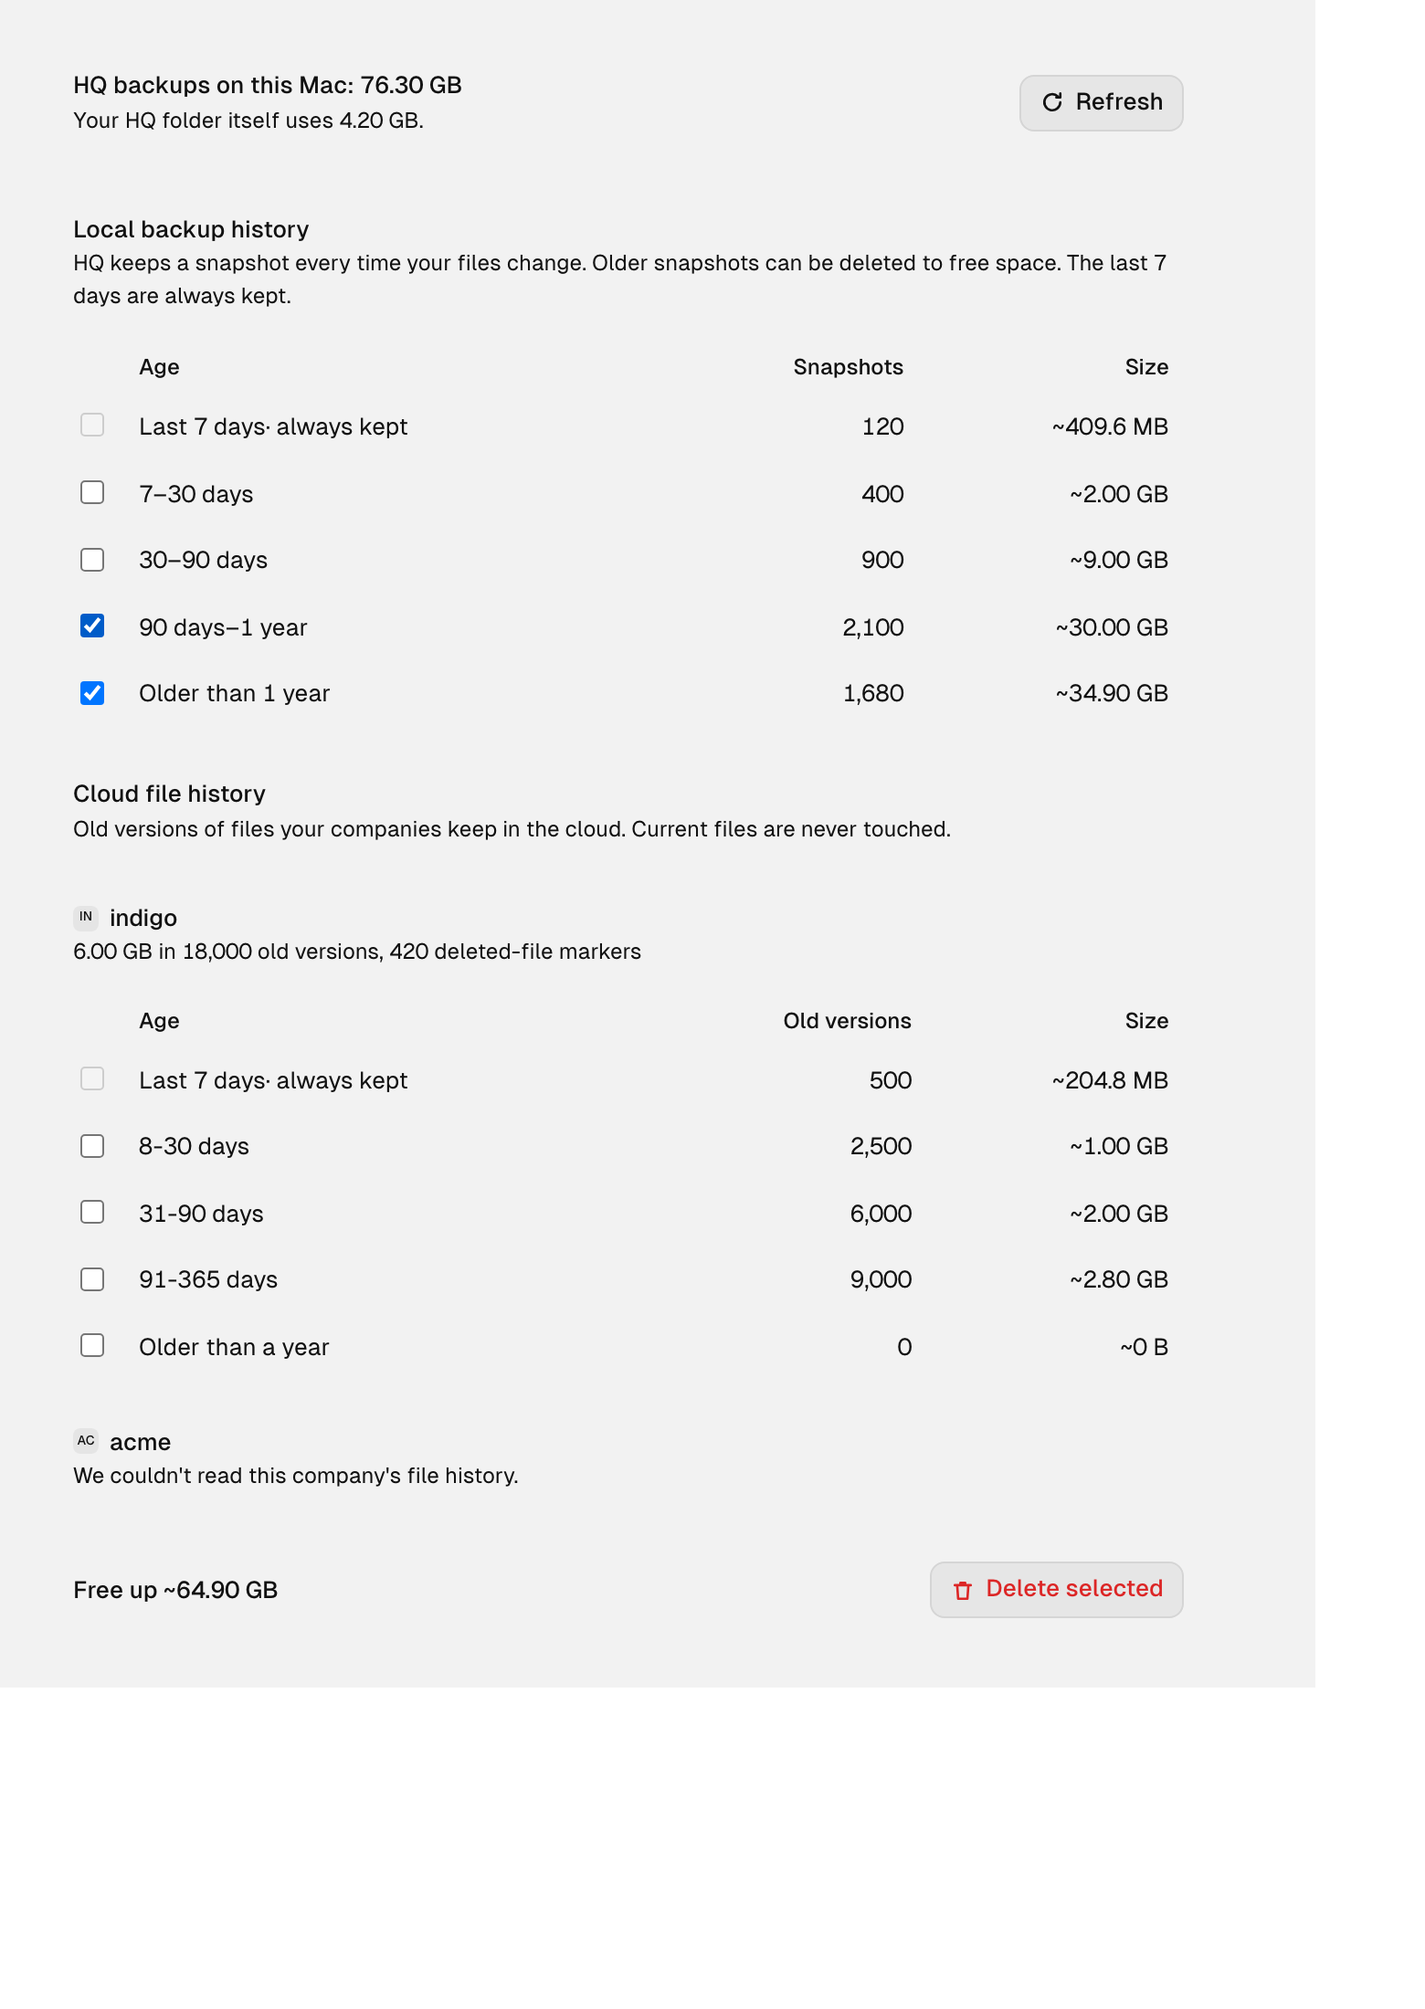
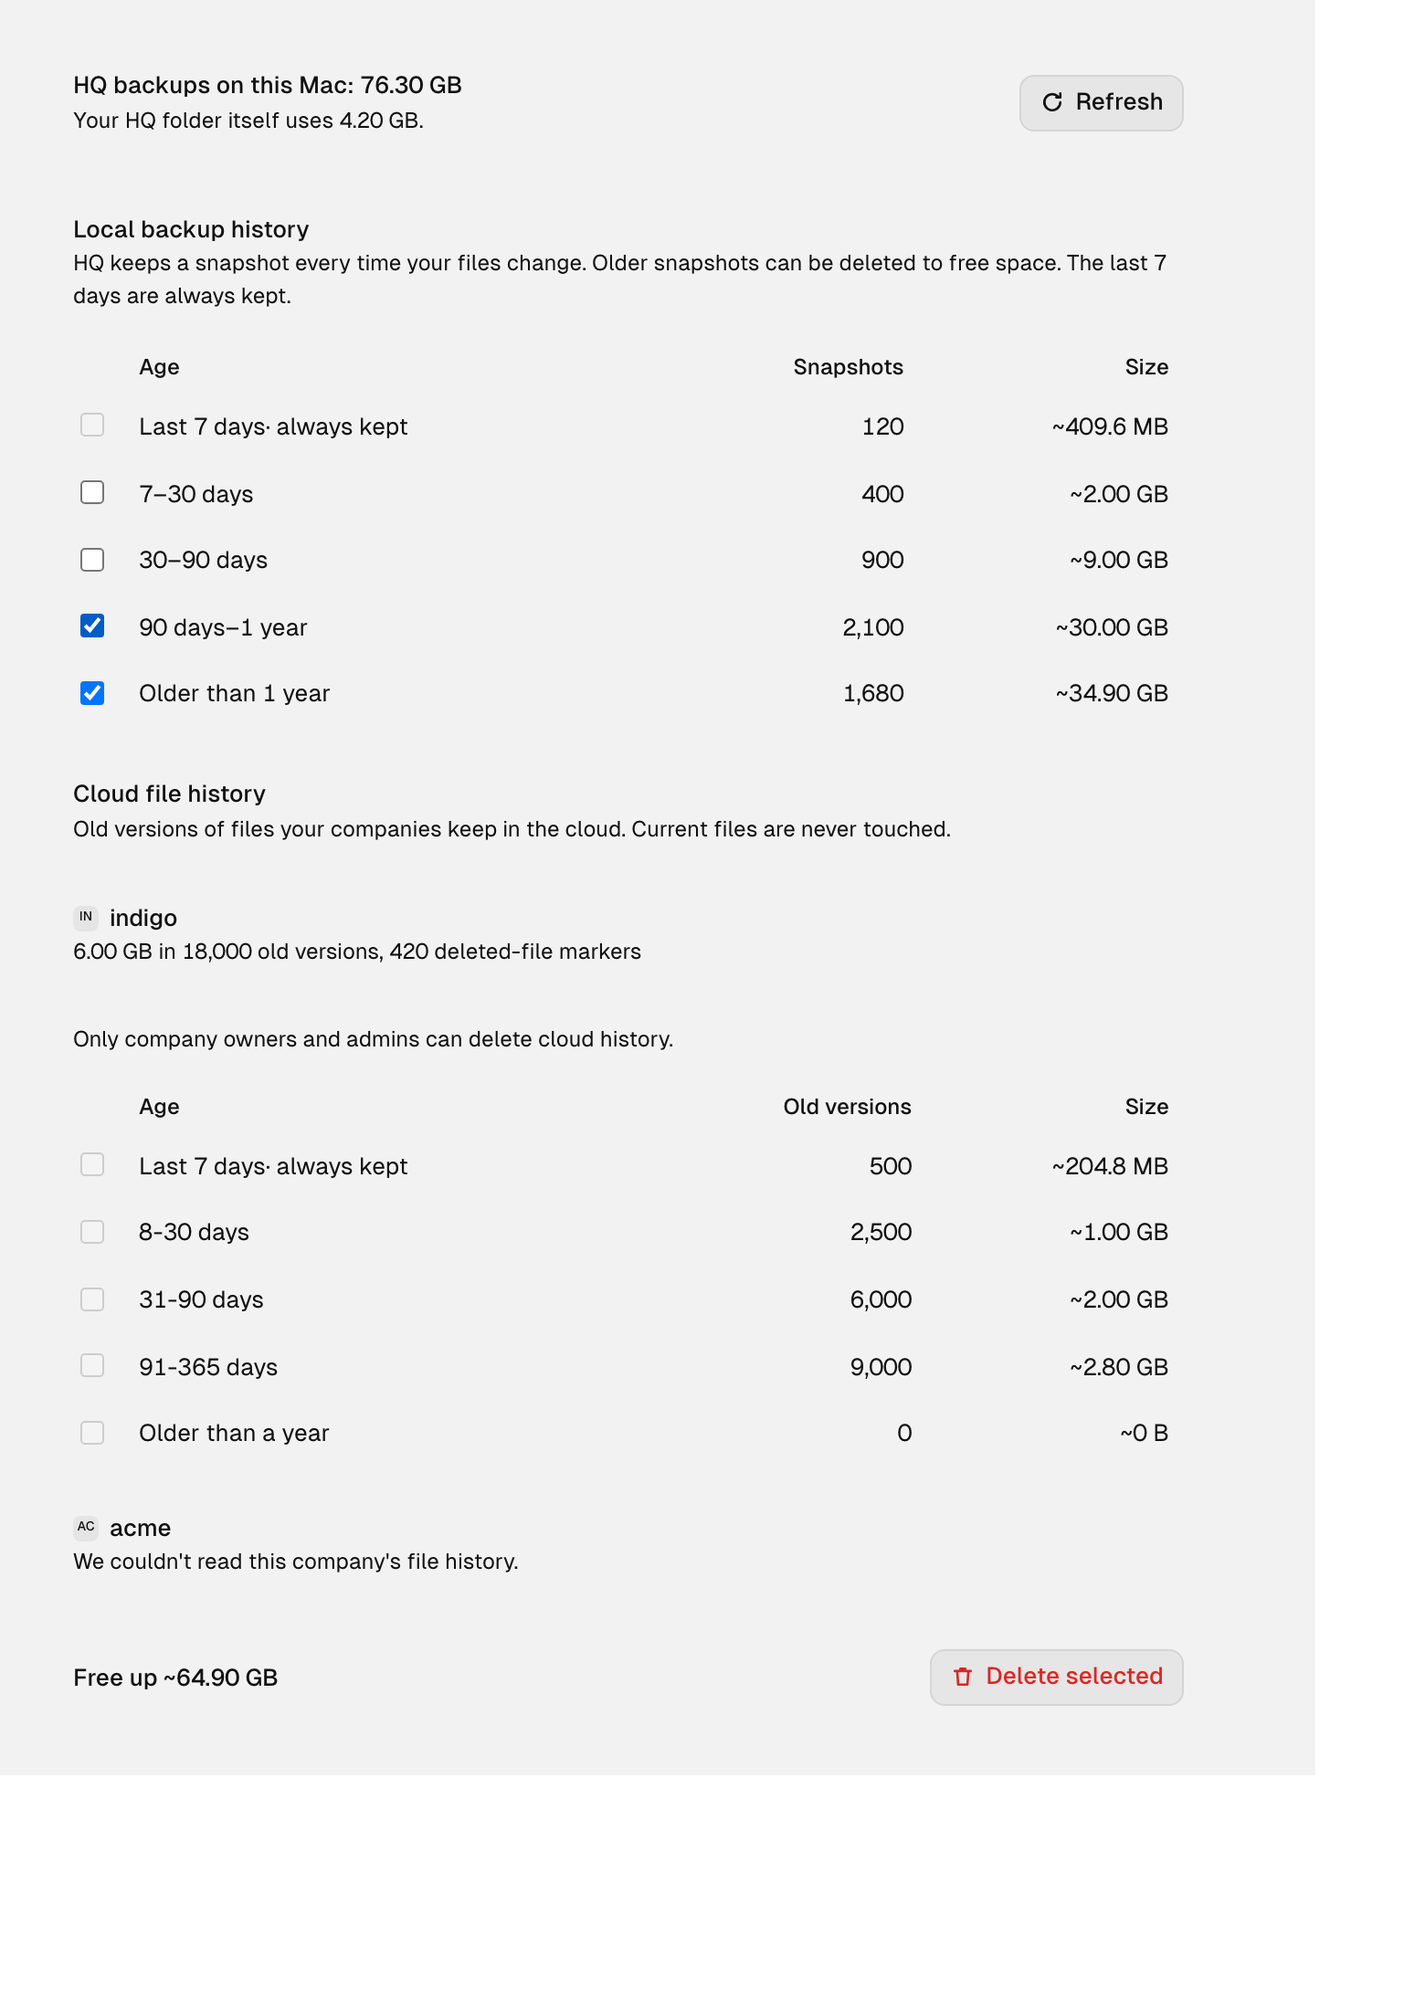
Settings › Storage: say tool bookmarks will be cleared; cloud delete is owners and admins only
Owner decisions: the confirm dialog names the count of old bookmarks
(refs_to_remove) prune clears, replacing the retained-refs note. Members
see cloud history sizes, but cloud bands are disabled with 'Only company
owners and admins can delete cloud history.' Unknown roles fall back to
the CLI's access-denied error, shown with the same copy.

diff --git a/packages/ui/src/settings/StorageSettingsPane.svelte b/packages/ui/src/settings/StorageSettingsPane.svelte
@@ -22,7 +22,12 @@
   import { formatBytes } from "../common/sync-model.js";
   import {
     UPDATE_HQ_CODE,
-    hasRetainedRefs,
+    CLOUD_ADMIN_ONLY_COPY,
+    bookmarksCopy,
+    canDeleteCloud,
+    isPermissionError,
+    refsToRemove,
+    rolesFromMemberships,
     isBandSelected,
     isProtectedBand,
     pruneRequests,
@@ -48,11 +53,11 @@
   let localCutoff = $state<BandCutoff>(null);
   let cloudCutoffs = $state<Record<string, BandCutoff>>({});
   let phase = $state<Phase>("idle");
-  let preview = $state<{ bytes: number; lines: string[] } | null>(null);
+  let preview = $state<{ bytes: number; lines: string[]; notes: string[] } | null>(null);
   let actionError = $state<string | null>(null);
   let result = $state<{ freed: number; errors: string[] } | null>(null);
-  /** The last preview or prune said other tools still hold old history. */
-  let retainedRefs = $state(false);
+  /** Company slug → the person's role, from their memberships. */
+  let roles = $state<Map<string, string>>(new Map());
 
   const api = $derived(adapter?.storage ?? null);
 
@@ -130,9 +135,9 @@
     phase = "previewing";
     actionError = null;
     result = null;
-    retainedRefs = false;
     let bytes = 0;
     const lines: string[] = [];
+    const notes: string[] = [];
     for (const req of requests) {
       const res = await api.previewPrune(req);
       if (!res.ok) {
@@ -143,12 +148,13 @@
         phase = "idle";
         return;
       }
-      if (hasRetainedRefs(res.value)) retainedRefs = true;
       const freed = prunedBytes(res.value);
       bytes += freed;
       lines.push(`${describeRequest(req)} (about ${formatBytes(freed)})`);
+      const bookmarks = bookmarksCopy(refsToRemove(res.value));
+      if (bookmarks) notes.push(bookmarks);
     }
-    preview = { bytes, lines };
+    preview = { bytes, lines, notes };
     phase = "confirm";
   }
 
@@ -166,12 +172,13 @@
         continue;
       }
       freed += prunedBytes(res.value);
-      if (hasRetainedRefs(res.value)) retainedRefs = true;
       if (res.value.local && res.value.local.available === false) {
         errors.push("this Mac: some backups couldn't be deleted.");
       }
       for (const c of res.value.cloud ?? []) {
-        if ((c.errors ?? []).length > 0) errors.push(`${c.company}: some old versions couldn't be deleted.`);
+        const errs = c.errors ?? [];
+        if (errs.some(isPermissionError)) errors.push(`${c.company}: ${CLOUD_ADMIN_ONLY_COPY}`);
+        else if (errs.length > 0) errors.push(`${c.company}: some old versions couldn't be deleted.`);
       }
     }
     result = { freed, errors };
@@ -188,12 +195,18 @@
 
   const confirmMessage = $derived(
     preview
-      ? `${preview.lines.join(". ")}. This frees about ${formatBytes(preview.bytes)}. This can't be undone. You won't be able to restore these old versions.`
+      ? `${preview.lines.join(". ")}. This frees about ${formatBytes(preview.bytes)}.${preview.notes.map((n) => ` ${n}`).join("")} This can't be undone. You won't be able to restore these old versions.`
       : "",
   );
 
+  async function loadRoles(): Promise<void> {
+    const res = await adapter?.identity?.listWorkspaces?.().catch(() => null);
+    if (res?.ok) roles = rolesFromMemberships(res.value as Record<string, unknown>[]);
+  }
+
   onMount(() => {
     void load();
+    void loadRoles();
   });
 </script>
 
@@ -270,9 +283,6 @@
         </tbody>
       </table>
     {/if}
-    {#if retainedRefs}
-      <div class="set-row"><div class="sd" data-testid="settings-storage-retained-note">Some older history is still held by other tools, so less space may be freed.</div></div>
-    {/if}
 
     <div class="set-subhead"><div class="sn">Cloud file history</div>
       <div class="sd">Old versions of files your companies keep in the cloud. Current files are never touched.</div>
@@ -294,8 +304,12 @@
             </div>
           </div>
         </div>
+        {#if entry.available && entry.bands.length > 0 && !canDeleteCloud(roles, entry.company)}
+          <div class="set-row"><div class="sd" data-testid={`settings-storage-cloud-${entry.company}-admin-only`}>{CLOUD_ADMIN_ONLY_COPY}</div></div>
+        {/if}
         {#if entry.available && entry.bands.length > 0}
           {@const cutoff = cloudCutoffs[entry.company] ?? null}
+          {@const canDelete = canDeleteCloud(roles, entry.company)}
           <table class="bands">
             <thead><tr><th></th><th>Age</th><th class="num">Old versions</th><th class="num">Size</th></tr></thead>
             <tbody>
@@ -308,7 +322,7 @@
                       aria-label={`Delete ${entry.company} ${band.label}`}
                       data-testid={`storage-cloud-${entry.company}-band-${band.id}`}
                       checked={isBandSelected(cutoff, i)}
-                      disabled={locked || phase !== "idle"}
+                      disabled={locked || !canDelete || phase !== "idle"}
                       onchange={() =>
                         (cloudCutoffs = {
                           ...cloudCutoffs,

diff --git a/packages/ui/src/settings/StorageSettingsPane.test.ts b/packages/ui/src/settings/StorageSettingsPane.test.ts
@@ -83,10 +83,14 @@ export const SAMPLE_STATUS: StorageStatus = {
 
 type StorageMock = NonNullable<PlatformAdapter["storage"]>;
 
-function adapter(storage: Partial<StorageMock> | null): PlatformAdapter {
+function adapter(
+  storage: Partial<StorageMock> | null,
+  memberships?: Record<string, unknown>[],
+): PlatformAdapter {
   return {
     isAvailable: () => false,
     storage: storage ?? undefined,
+    identity: memberships ? { listWorkspaces: async () => ({ ok: true, value: memberships }) } : undefined,
   } as unknown as PlatformAdapter;
 }
 
@@ -98,12 +102,15 @@ async function settle(): Promise<void> {
   flushSync();
 }
 
-async function render(storage: Partial<StorageMock> | null): Promise<void> {
+async function render(
+  storage: Partial<StorageMock> | null,
+  memberships?: Record<string, unknown>[],
+): Promise<void> {
   host = document.createElement("div");
   document.body.appendChild(host);
   component = mount(StorageSettingsPane, {
     target: host,
-    props: { adapter: adapter(storage) },
+    props: { adapter: adapter(storage, memberships) },
   });
   await settle();
 }
@@ -242,27 +249,38 @@ describe("Settings › Storage pane", () => {
     expect(prune).not.toHaveBeenCalled();
   });
 
-  it("notes when other tools still hold old local history", async () => {
+  it("says in the confirm dialog that old tool bookmarks will be cleared", async () => {
     await render({
       status: async () => ({ ok: true, value: SAMPLE_STATUS }),
       previewPrune: async () => ({
         ok: true,
         value: {
-          local: { ...LOCAL_PRUNE, would_remove_commits: 10, est_bytes: GB, retained_refs: 3 },
+          local: { ...LOCAL_PRUNE, would_remove_commits: 10, est_bytes: GB, refs_to_remove: 3 },
           cloud: [],
           dry_run: true,
         },
       }),
       prune: vi.fn(),
     });
-    expect(q("settings-storage-retained-note")).toBeNull();
     (q("storage-local-band-older") as HTMLInputElement).click();
     await settle();
     q("settings-storage-delete")?.click();
     await settle();
-    expect(q("settings-storage-retained-note")?.textContent).toBe(
-      "Some older history is still held by other tools, so less space may be freed.",
+    const dialog = document.querySelector("[data-testid='confirm-dialog']");
+    expect(dialog?.textContent).toContain("3 old bookmarks other tools left behind will also be cleared.");
+  });
+
+  it("members see cloud sizes but cannot tick cloud bands", async () => {
+    await render({
+      status: async () => ({ ok: true, value: SAMPLE_STATUS }),
+      previewPrune: vi.fn(),
+      prune: vi.fn(),
+    }, [{ companySlug: "indigo", role: "member", status: "active" }]);
+    expect(q("settings-storage-cloud-indigo-admin-only")?.textContent).toBe(
+      "Only company owners and admins can delete cloud history.",
     );
+    expect((q("storage-cloud-indigo-band-older") as HTMLInputElement).disabled).toBe(true);
+    expect(q("settings-storage-cloud-indigo")?.textContent).toContain("old versions");
   });
 
   it("reports per-company cloud errors in plain words", async () => {
@@ -293,7 +311,7 @@ describe("Settings › Storage pane", () => {
     Array.from(dialog!.querySelectorAll("button")).find((b) => b.textContent?.includes("Delete"))!.click();
     await settle();
     const text = q("settings-storage-result")?.textContent ?? "";
-    expect(text).toContain("indigo: some old versions couldn't be deleted.");
+    expect(text).toContain("indigo: Only company owners and admins can delete cloud history.");
     expect(text).not.toContain("s3:");
   });
 });

diff --git a/packages/ui/src/settings/storage-model.test.ts b/packages/ui/src/settings/storage-model.test.ts
@@ -2,7 +2,11 @@ import { describe, expect, it } from "vitest";
 
 import {
   cutoffDate,
-  hasRetainedRefs,
+  bookmarksCopy,
+  canDeleteCloud,
+  isPermissionError,
+  refsToRemove,
+  rolesFromMemberships,
   isBandSelected,
   pruneRequests,
   prunedBytes,
@@ -133,8 +137,30 @@ describe("prunedBytes / hasRetainedRefs (hq storage prune --json)", () => {
     expect(prunedBytes({ local: null, cloud: [], dry_run: true })).toBe(0);
   });
 
-  it("flags retained refs", () => {
-    expect(hasRetainedRefs({ local: { ...local, retained_refs: 2 }, cloud: [], dry_run: true })).toBe(true);
-    expect(hasRetainedRefs({ local: null, cloud: [], dry_run: true })).toBe(false);
+  it("reads refs_to_remove and words the bookmarks note", () => {
+    expect(refsToRemove({ local: { ...local, refs_to_remove: 3 }, cloud: [], dry_run: true })).toBe(3);
+    expect(refsToRemove({ local: null, cloud: [], dry_run: true })).toBe(0);
+    expect(bookmarksCopy(0)).toBe("");
+    expect(bookmarksCopy(1)).toBe("1 old bookmark other tools left behind will also be cleared.");
+    expect(bookmarksCopy(3)).toBe("3 old bookmarks other tools left behind will also be cleared.");
+  });
+});
+
+describe("cloud delete permission", () => {
+  it("allows owners, admins and unknown roles; blocks members", () => {
+    const roles = rolesFromMemberships([
+      { companySlug: "indigo", role: "owner" },
+      { companySlug: "acme", role: "Admin" },
+      { companySlug: "beta", role: "member" },
+    ]);
+    expect(canDeleteCloud(roles, "indigo")).toBe(true);
+    expect(canDeleteCloud(roles, "acme")).toBe(true);
+    expect(canDeleteCloud(roles, "beta")).toBe(false);
+    expect(canDeleteCloud(roles, "unknown")).toBe(true);
+  });
+
+  it("recognises the CLI access-denied message", () => {
+    expect(isPermissionError("Access denied deleting old versions (needs s3:DeleteObjectVersion on the vault bucket).")).toBe(true);
+    expect(isPermissionError("NoSuchBucket")).toBe(false);
   });
 });

diff --git a/packages/ui/src/settings/storage-model.ts b/packages/ui/src/settings/storage-model.ts
@@ -153,7 +153,42 @@ export function prunedBytes(r: StoragePruneResult): number {
   return total;
 }
 
-/** True when other refs (tags, stash, tool markers) keep old local history. */
-export function hasRetainedRefs(r: StoragePruneResult): boolean {
-  return (r.local?.retained_refs ?? 0) > 0;
+/** Tool bookmarks a dry run says prune will clear (0 when not reported). */
+export function refsToRemove(r: StoragePruneResult): number {
+  return r.local?.refs_to_remove ?? 0;
+}
+
+/** Plain copy for the confirm dialog about bookmarks other tools left. */
+export function bookmarksCopy(count: number): string {
+  if (count <= 0) return "";
+  return count === 1
+    ? "1 old bookmark other tools left behind will also be cleared."
+    : `${count.toLocaleString()} old bookmarks other tools left behind will also be cleared.`;
+}
+
+export const CLOUD_ADMIN_ONLY_COPY = "Only company owners and admins can delete cloud history.";
+
+/**
+ * False only when the person is known to be neither owner nor admin of the
+ * company. Unknown role: the CLI's permission error decides.
+ */
+export function canDeleteCloud(roles: ReadonlyMap<string, string>, company: string): boolean {
+  const role = (roles.get(company) ?? "").trim().toLowerCase();
+  return !role || role === "owner" || role === "admin";
+}
+
+/** Slug → role from `identity.listWorkspaces()` membership rows. */
+export function rolesFromMemberships(rows: ReadonlyArray<Record<string, unknown>>): Map<string, string> {
+  const roles = new Map<string, string>();
+  for (const row of rows) {
+    const slug = row.companySlug ?? row.slug;
+    const role = row.role;
+    if (typeof slug === "string" && typeof role === "string") roles.set(slug, role);
+  }
+  return roles;
+}
+
+/** True when a cloud prune error is the CLI's access-denied message. */
+export function isPermissionError(message: string): boolean {
+  return /access denied/i.test(message);
 }

diff --git a/packages/platform/src/adapter.ts b/packages/platform/src/adapter.ts
@@ -2315,6 +2315,8 @@ export interface StorageStatus {
     oldest_commit_at?: string | null;
     newest_commit_at?: string | null;
     tranches: StorageLocalTranche[];
+    /** Tool bookmarks (e.g. refs/cmux/last-turn/*) that prune clears. */
+    extra_refs?: number;
   };
   cloud: StorageCloudCompany[];
   generated_at?: string | null;
@@ -2343,6 +2345,10 @@ export interface StorageLocalPruneResult {
   total_commits_before: number;
   flattened_merges: number;
   retained_refs: number;
+  /** Dry run: tool bookmarks prune would clear. */
+  refs_to_remove?: number;
+  /** Real run: tool bookmarks prune cleared. */
+  refs_removed?: number;
   before?: { git_dir_bytes: number } | null;
   after?: { git_dir_bytes: number } | null;
 }

diff --git a/apps/sync/src-tauri/src/commands/storage.rs b/apps/sync/src-tauri/src/commands/storage.rs
@@ -42,6 +42,8 @@ pub struct LocalStorage {
     pub oldest_commit_at: Option<String>,
     pub newest_commit_at: Option<String>,
     pub tranches: Vec<LocalTranche>,
+    /// Refs (tool bookmarks such as refs/cmux/last-turn/*) that prune clears.
+    pub extra_refs: u64,
 }
 
 #[derive(Debug, Clone, Default, Serialize, Deserialize, PartialEq)]
@@ -96,6 +98,10 @@ pub struct LocalPruneResult {
     pub total_commits_before: u64,
     pub flattened_merges: u64,
     pub retained_refs: u64,
+    /// Dry run: extra refs prune would delete.
+    pub refs_to_remove: u64,
+    /// Real run: extra refs prune deleted.
+    pub refs_removed: u64,
     pub before: Option<GitDirSize>,
     pub after: Option<GitDirSize>,
 }
@@ -281,6 +287,7 @@ mod tests {
         assert_eq!(s.local.tranches.len(), 2);
         assert_eq!(s.local.tranches[1].id, "older");
         assert_eq!(s.local.tranches[1].commit_count, 3000);
+        assert_eq!(s.local.extra_refs, 0);
         assert_eq!(s.cloud.len(), 2);
         assert_eq!(s.cloud[0].delete_markers, 2);
         assert_eq!(s.cloud[0].tranches[0].bytes, 5);
@@ -311,7 +318,8 @@ mod tests {
     fn parses_dry_run_prune() {
         let r = parse_prune(
             r#"{"local":{"available":true,"would_remove_commits":3990,"est_bytes":52000000000,
-                 "flattened_merges":2,"retained_refs":5},
+                 "flattened_merges":2,"retained_refs":5,"refs_to_remove":3,
+                 "refs_to_remove_sample":["refs/cmux/last-turn/a"]},
                 "cloud":[{"company":"indigo","deleted_count":12,"deleted_bytes":4096,"errors":[]}],
                 "dry_run":true}"#,
         )
@@ -322,6 +330,7 @@ mod tests {
         assert_eq!(local.would_remove_commits, 3990);
         assert_eq!(local.est_bytes, 52_000_000_000);
         assert_eq!(local.retained_refs, 5);
+        assert_eq!(local.refs_to_remove, 3);
         assert!(local.before.is_none());
         assert_eq!(r.cloud[0].deleted_bytes, 4096);
         assert!(r.cloud[0].errors.is_empty());
@@ -331,7 +340,7 @@ mod tests {
     fn parses_real_prune_with_errors() {
         let r = parse_prune(
             r#"{"local":{"available":true,"removed_commits":3990,"total_commits_before":4200,
-                 "flattened_merges":2,"retained_refs":5,
+                 "flattened_merges":2,"retained_refs":5,"refs_removed":3,
                  "before":{"git_dir_bytes":81927340032},"after":{"git_dir_bytes":30000000000}},
                 "cloud":[{"company":"indigo","deleted_count":2,"deleted_bytes":7,"errors":[]},
                          {"company":"acme","deleted_count":0,"deleted_bytes":0,
@@ -341,6 +350,7 @@ mod tests {
         .unwrap();
         let local = r.local.unwrap();
         assert_eq!(local.removed_commits, 3990);
+        assert_eq!(local.refs_removed, 3);
         assert_eq!(local.before.unwrap().git_dir_bytes, 81_927_340_032);
         assert_eq!(local.after.unwrap().git_dir_bytes, 30_000_000_000);
         assert_eq!(r.cloud[0].deleted_count, 2);
